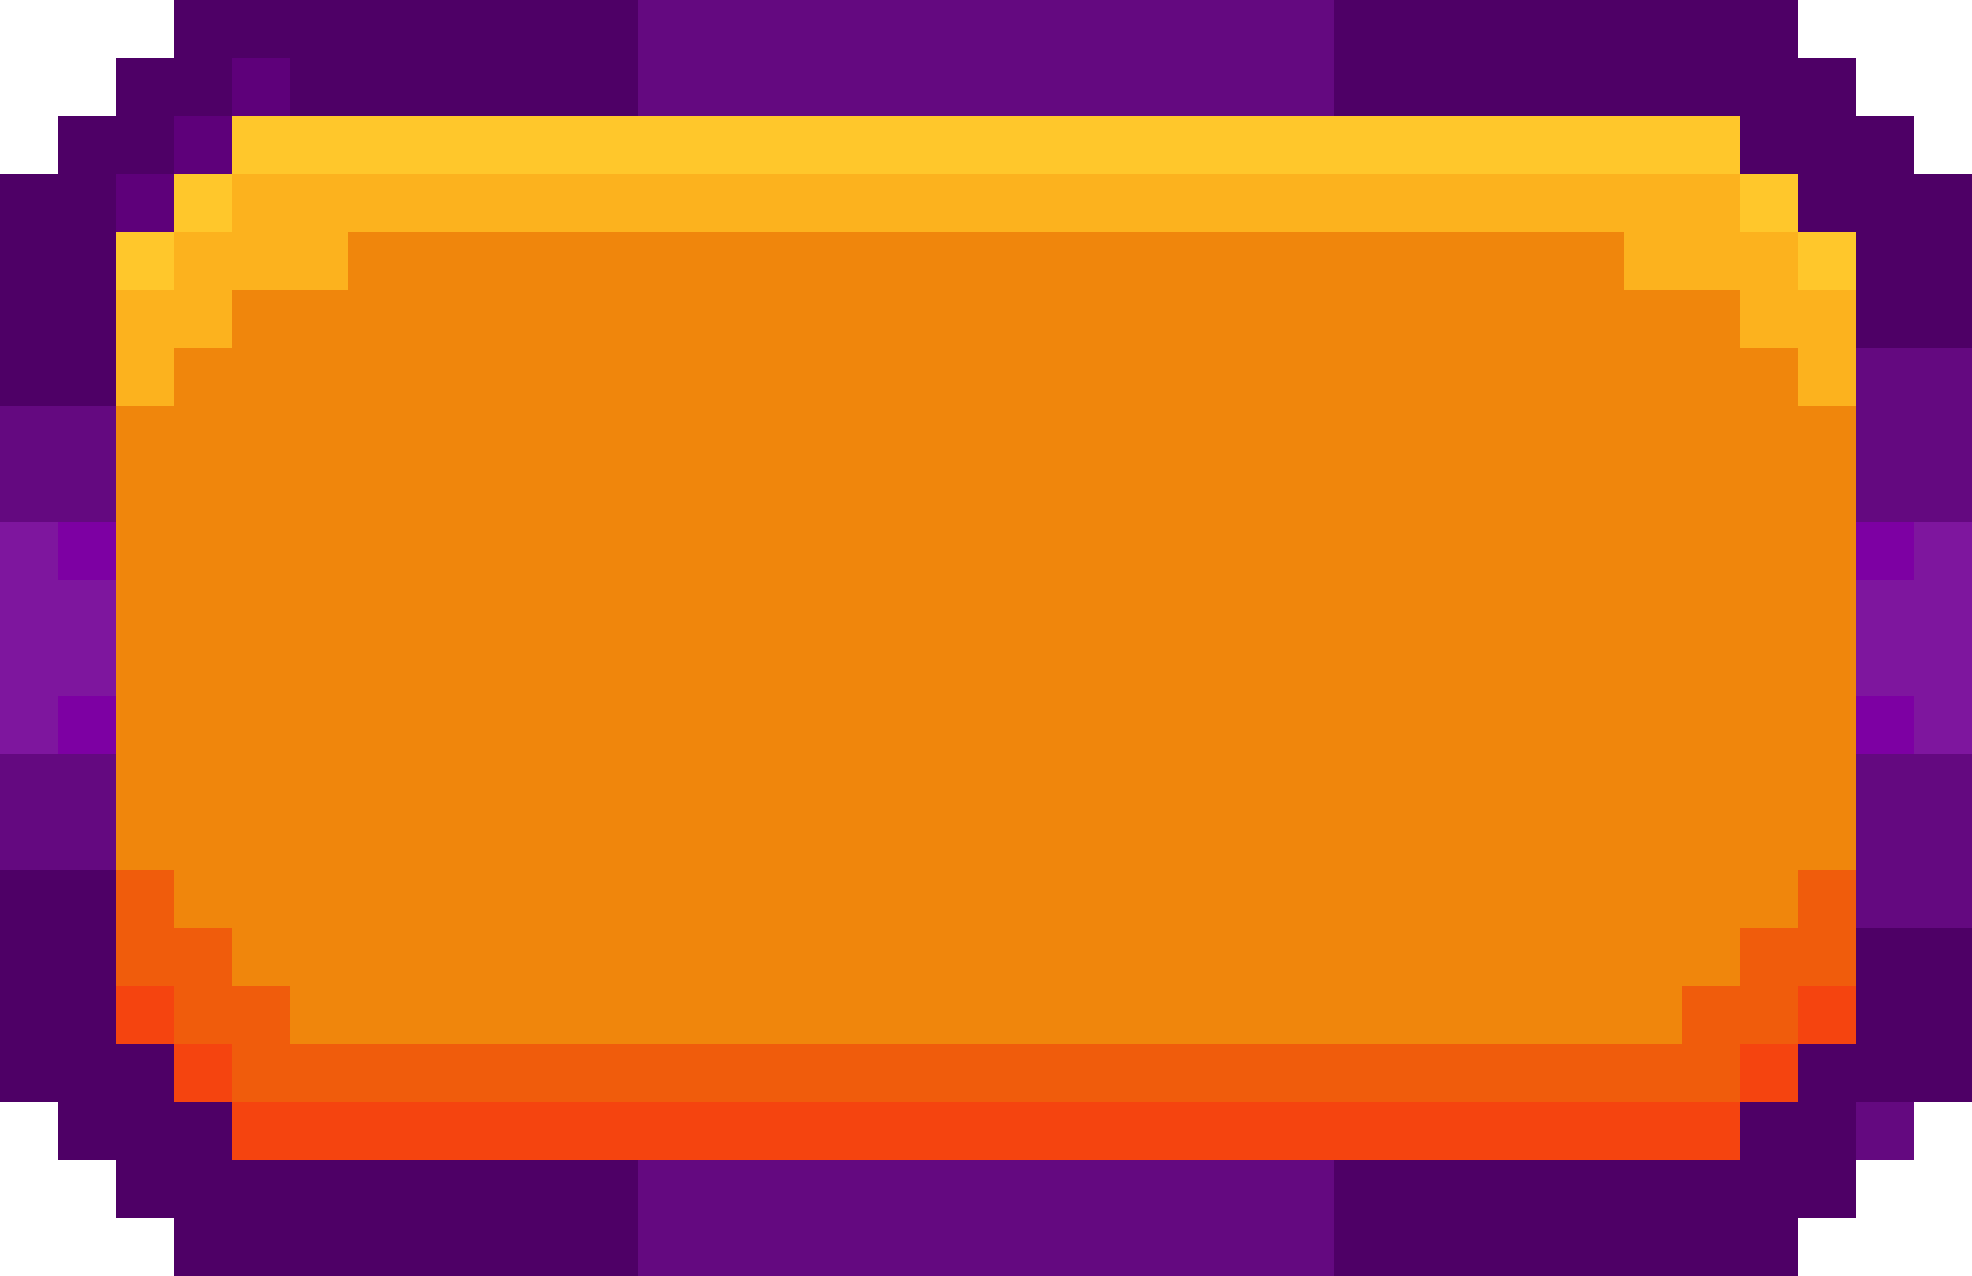
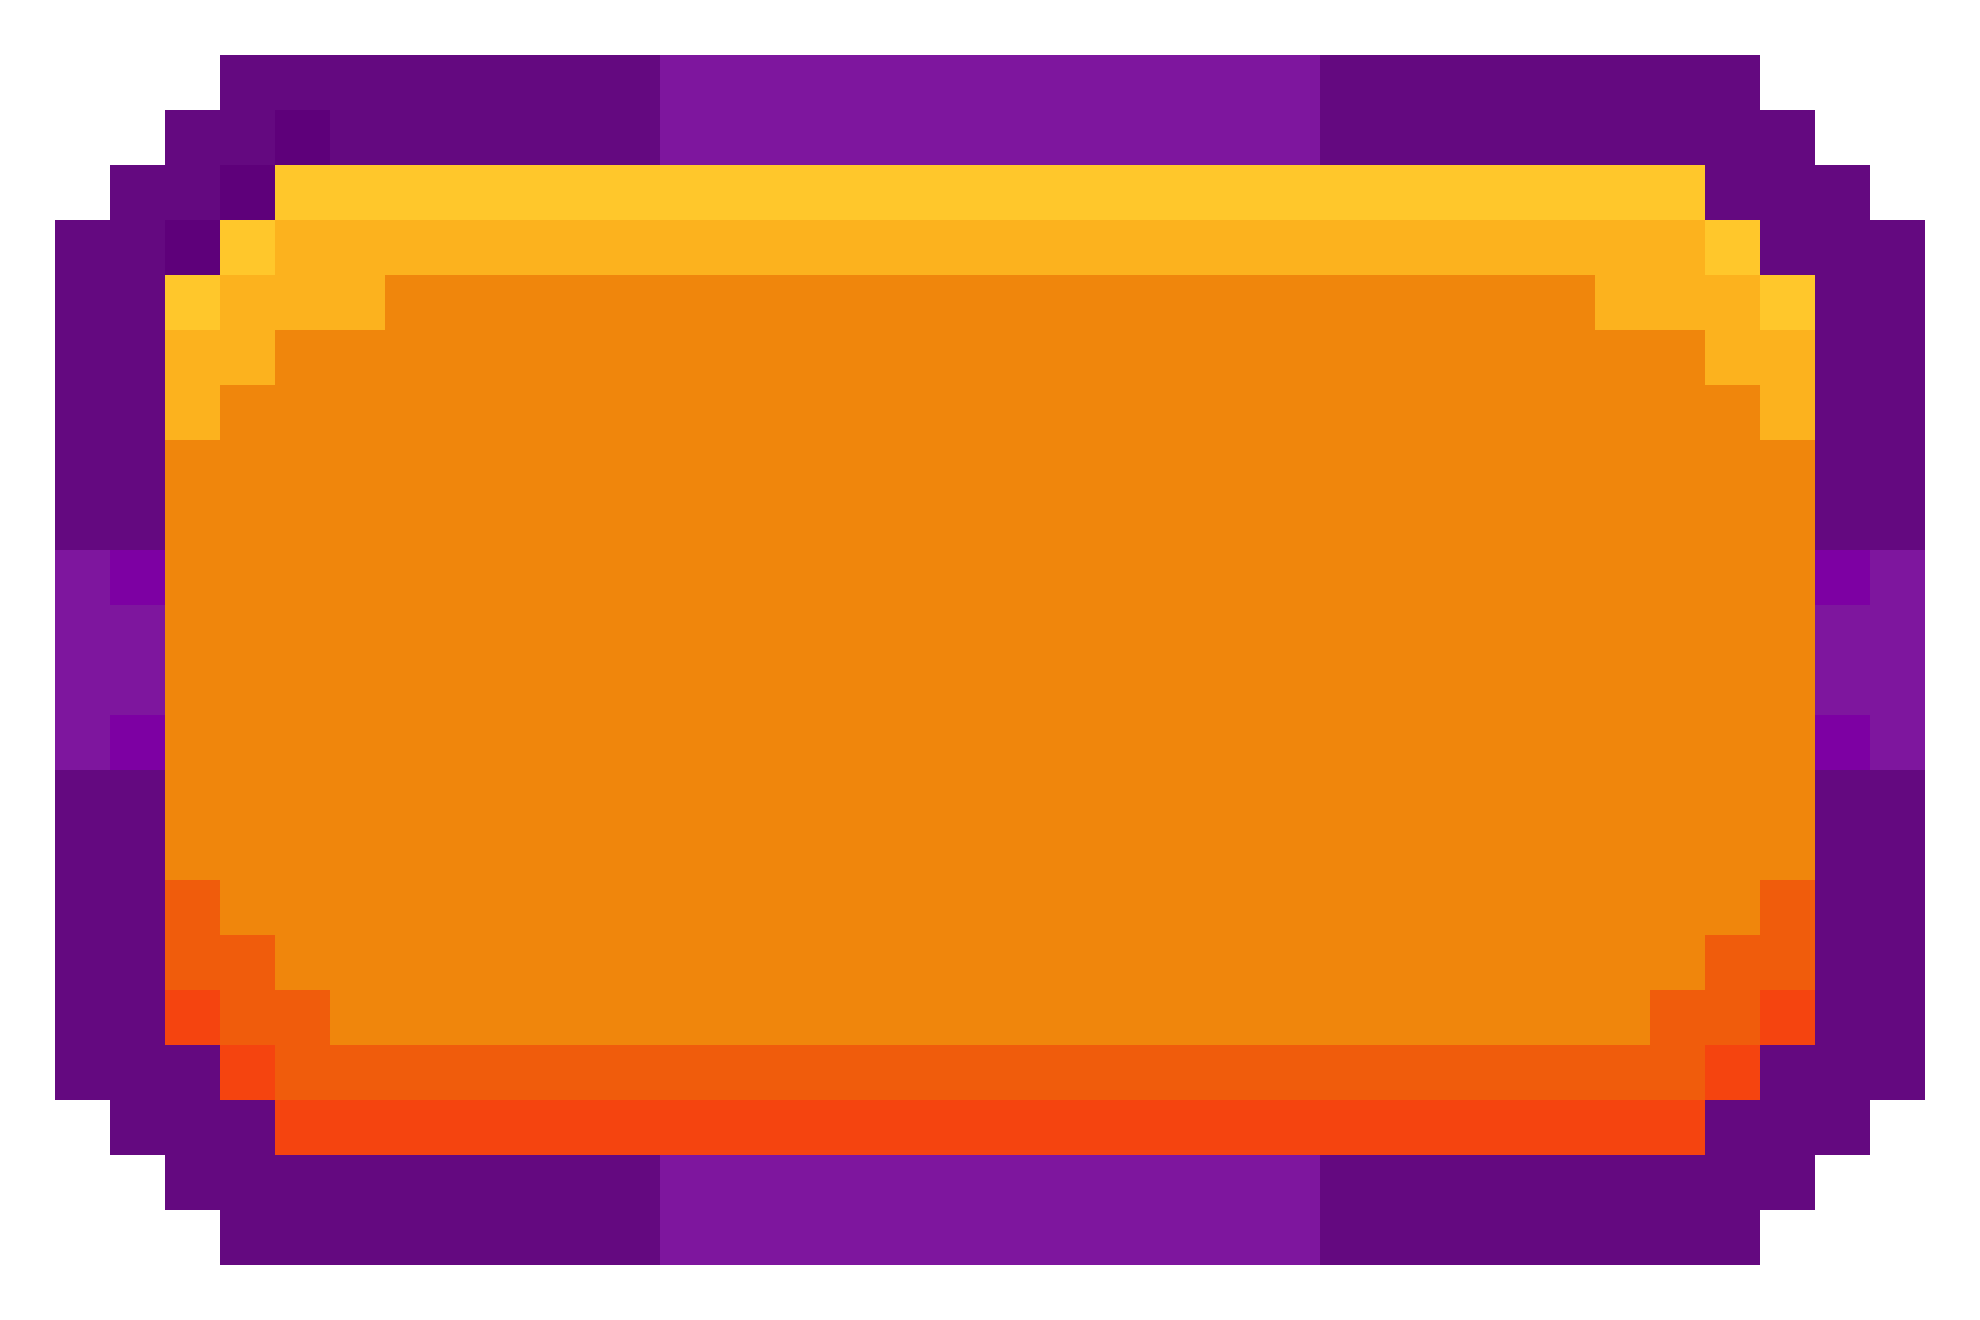
Added buttons to selecting screen

diff --git a/UI/Resources/Styles/Styles.xaml b/UI/Resources/Styles/Styles.xaml
@@ -24,8 +24,8 @@
     </Style>
 
     <Style TargetType="Button">
-        <Setter Property="TextColor" Value="{AppThemeBinding Light={StaticResource White}, Dark={StaticResource Primary}}" />
-        <Setter Property="BackgroundColor" Value="{AppThemeBinding Light={StaticResource Primary}, Dark={StaticResource White}}" />
+        <Setter Property="TextColor" Value="{AppThemeBinding Light={StaticResource PaloozaTextColor}, Dark={StaticResource Primary}}" />
+        <Setter Property="BackgroundColor" Value="{AppThemeBinding Light={StaticResource Yellow100Accent}, Dark={StaticResource White}}" />
         <Setter Property="FontFamily" Value="DePixelHalbfett"/>
         <Setter Property="FontSize" Value="14"/>
         <Setter Property="CornerRadius" Value="8"/>

diff --git a/UI/NewContent1.xaml b/UI/NewContent1.xaml
@@ -1,0 +1,16 @@
+<?xml version="1.0" encoding="utf-8" ?>
+<ContentView xmlns="http://schemas.microsoft.com/dotnet/2021/maui"
+             xmlns:x="http://schemas.microsoft.com/winfx/2009/xaml"
+             xmlns:ui="clr-namespace:UI"
+             x:Class="UI.NewContent1">
+    <Shell.TitleView>
+        <ui:NewContent1></ui:NewContent1>
+    </Shell.TitleView>
+
+    <VerticalStackLayout>
+        <Label 
+            Text="Welcome to .NET MAUI!"
+            VerticalOptions="Center" 
+            HorizontalOptions="Center" />
+    </VerticalStackLayout>
+</ContentView>

diff --git a/UI/Resources/Styles/Colors.xaml b/UI/Resources/Styles/Colors.xaml
@@ -10,6 +10,7 @@
     <Color x:Key="White">White</Color>
     <Color x:Key="Black">Black</Color>
     <Color x:Key="PaloozaBackground">#C095C2</Color>
+    <Color x:Key="PaloozaTextColor">#540069</Color>
     <Color x:Key="Gray100">#E1E1E1</Color>
     <Color x:Key="Gray200">#C8C8C8</Color>
     <Color x:Key="Gray300">#ACACAC</Color>

diff --git a/UI/Pages/ScreenPlacementSelectingPage.xaml b/UI/Pages/ScreenPlacementSelectingPage.xaml
@@ -5,7 +5,7 @@
              Shell.NavBarIsVisible="false"
              Title="">
     <Grid x:Name="gridLayout"
-          RowDefinitions="*,Auto,10,Auto,*"
+          RowDefinitions="*,Auto,Auto,*"
           ColumnDefinitions="*,Auto,Auto,*"
           >
     </Grid>

diff --git a/UI/Pages/ScreenPlacementSelectingPage.xaml.cs b/UI/Pages/ScreenPlacementSelectingPage.xaml.cs
@@ -17,8 +17,7 @@ public partial class ScreenPlacementSelectingPage : ContentPage
     private ScreenPlacementSelectingLogic m_pageLogic = new ScreenPlacementSelectingLogic();
     private static List<Button> m_PlacementButton = new List<Button>();
     private List<Image> m_Images = new List<Image>();
-    private int m_ScreenSizeWidth;
-    private int m_ScreenSizeHeight;
+    private GameInformation m_GameInformation = GameInformation.Instance;
 
     Player m_Player = Player.Instance;
 
@@ -60,13 +59,14 @@ public partial class ScreenPlacementSelectingPage : ContentPage
         Shell.Current.GoToAsync("GamePage");
     }
 
-    protected override async void OnSizeAllocated(double i_Width, double i_Height)
-    {
-        base.OnSizeAllocated(i_Width,i_Height);
-        m_ScreenSizeHeight = (int)i_Height;
-        m_ScreenSizeWidth = (int)i_Width;
-        m_pageLogic.SetPlayerScreenSize((int)i_Width, (int)i_Height);
-    }
+    //protected override void OnSizeAllocated(double i_Width, double i_Height)
+    //{
+    
+    //            base.OnSizeAllocated(i_Width,i_Height);
+    //        m_ScreenSizeHeight = (int)i_Height;
+    //        m_ScreenSizeWidth = (int)i_Width;
+    //        m_pageLogic.SetPlayerScreenSize((int)i_Width, (int)i_Height);
+    //}
 
     private void initializeButtons()
     {
@@ -79,15 +79,16 @@ public partial class ScreenPlacementSelectingPage : ContentPage
                         Image image = new Image();
                         Button button = new Button();
                         Position position = new Position(m_pageLogic.AmountOfPlayers, i + 1);
-                        
+                        button.BorderColor = Colors.Transparent;
                         button.Text = (i + 1).ToString();
-                        int a = ((m_ScreenSizeHeight) / 12)/3;
+                        int a = ((m_GameInformation.m_ClientScreenDimension.SizeDTO.m_Height) / 12)/3;
                         image.HeightRequest =button.HeightRequest =  12*a;
                         image.WidthRequest=button.WidthRequest = 19*a;
                         image.Source = "placementbutton.png";
                         m_PlacementButton.Add(button);
                         m_Images.Add(image);
-                        
+                        button.FontSize = a * 3;
+                        button.FontAutoScalingEnabled = true;
                         button.Background = Brush.Transparent;
                         gridLayout.Add(image, (int)position.Column, (int)position.Row);
                         gridLayout.Add(m_PlacementButton[i], (int)position.Column, (int)position.Row);

diff --git a/LogicUnit/Logic/ScreenMapping.cs b/LogicUnit/Logic/ScreenMapping.cs
@@ -23,7 +23,6 @@ namespace LogicUnit
         public SizeDTO m_MovementButtonOurSize = GameSettings.m_MovementButtonOurSize;
         public int m_GameBoardGridSize = GameSettings.m_GameBoardGridSize;
         public int m_SpacingAroundButtons = GameSettings.m_SpacingAroundButtons;
-        public int m_ControllBoardTotalHeight;
 
         public ScreenMapping()
         {
@@ -34,12 +33,10 @@ namespace LogicUnit
 
         private void calculateMaxBoardSizeByGrid()
         {
-            m_ControllBoardTotalHeight = m_MovementButtonOurSize.m_Height * 3 + m_SpacingAroundButtons * 2;
-
             for (int i = 0; i < m_GameInformation.AmountOfPlayers; i++)
             {
                 SizeDTO maxScreenOurSize = new SizeDTO();
-                maxScreenOurSize.m_Height = ((m_GameInformation.ScreenInfoOfAllPlayers[i].SizeDTO.m_Height - m_ControllBoardTotalHeight) / m_GameBoardGridSize);
+                maxScreenOurSize.m_Height = ((m_GameInformation.ScreenInfoOfAllPlayers[i].SizeDTO.m_Height - GameSettings.ControllBoardTotalHeight) / m_GameBoardGridSize);
                 maxScreenOurSize.m_Width = ((m_GameInformation.ScreenInfoOfAllPlayers[i].SizeDTO.m_Width) / m_GameBoardGridSize);
                 m_PlayerGameBoardScreenSize.Add(maxScreenOurSize);
             }
@@ -75,9 +72,9 @@ namespace LogicUnit
             }
             else
             {
-                m_ValueToAdd.m_Row += m_ControllBoardTotalHeight;
+                m_ValueToAdd.m_Row += GameSettings.ControllBoardTotalHeight;
                 m_ValueToAdd.m_Row +=
-                    m_GameInformation.ScreenInfoOfAllPlayers[playerIndex].SizeDTO.m_Height - (m_ControllBoardTotalHeight + m_PlayerGameBoardScreenSize[playerIndex].m_Height * m_GameBoardGridSize);
+                    m_GameInformation.ScreenInfoOfAllPlayers[playerIndex].SizeDTO.m_Height - (GameSettings.ControllBoardTotalHeight + m_PlayerGameBoardScreenSize[playerIndex].m_Height * m_GameBoardGridSize);
             }
         }
 

diff --git a/LogicUnit/Logic/ScreenPlacementSelectingLogic.cs b/LogicUnit/Logic/ScreenPlacementSelectingLogic.cs
@@ -1,11 +1,6 @@
-//using System.Threading;
-//using System.Security.Cryptography.X509Certificates;
-using Microsoft.AspNetCore.SignalR.Client;
+using Microsoft.AspNetCore.SignalR.Client;
 using Microsoft.Maui;
 using Microsoft.Maui.Controls;
-//using static Java.Util.Jar.Attributes;
-//using Microsoft.Maui.Controls;
-//using static Java.Util.Jar.Attributes;
 using System;
 using System.Collections.Generic;
 using System.ComponentModel;
@@ -83,6 +78,7 @@ namespace LogicUnit
                 {
                     m_GameInformation.SetScreenInfo(i_NamesOfPlayers, i_ScreenSizeWidth, i_ScreenSizeHeight);
                     OnEnterGameRoom();
+                  
                 });
             });
 
@@ -160,7 +156,6 @@ namespace LogicUnit
         public void SetPlayerScreenSize(int i_Width, int i_Height)
         {
             m_GameInformation.m_ClientScreenDimension.SizeDTO = new SizeDTO(i_Width, i_Height);
-
         }
 
         public async void OnButtonClicked(object sender, EventArgs e)

diff --git a/UI/Pages/MainPage.xaml.cs b/UI/Pages/MainPage.xaml.cs
@@ -1,4 +1,5 @@
 using LogicUnit;
+using Objects;
 using Objects.Enums;
 using UI.Pages;
 
@@ -7,11 +8,21 @@ namespace UI
     public partial class MainPage : ContentPage
     {
         private LogicManager m_LogicManager;
+        private GameInformation m_GameInformation = GameInformation.Instance;
 
         public MainPage()
         {
             InitializeComponent();
             m_LogicManager = new LogicManager();
+        }
+
+        protected override void OnSizeAllocated(double i_Width, double i_Height)
+        {
+
+            base.OnSizeAllocated(i_Width, i_Height);
+            m_GameInformation.m_ClientScreenDimension.m_OurSize.m_Height = (int)i_Height;
+            m_GameInformation.m_ClientScreenDimension.m_OurSize.m_Width = (int)i_Width;
+           // m_pageLogic.SetPlayerScreenSize((int)i_Width, (int)i_Height);
         }
 
         private async void OnCreateRoomClicked(object sender, EventArgs e)

diff --git a/Objects/Utils.cs b/Objects/Utils.cs
@@ -9,7 +9,7 @@ namespace Objects
 {
     public class Utils
     {     //// "http://localhost:5163";// "https://pocserver20230311140030.azurewebsites.net";
-        public static string m_BaseAddress = "http://localhost:5163";//https://localhost:7038";//""https://gameroomserverfinalproject.azurewebsites.net";//"https://localhost:7038";
+        public static string m_BaseAddress = "https://gameroomserverfinalproject.azurewebsites.net";//https://localhost:7038";//""https://gameroomserverfinalproject.azurewebsites.net";//"https://localhost:7038";
         public static string m_GameHubAddress = m_BaseAddress + "/GameHub";
         public static string m_BounceBallAddress = m_BaseAddress + "/bounceBallHub";
     }

diff --git a/Objects/GameSettings.cs b/Objects/GameSettings.cs
@@ -17,6 +17,8 @@ namespace Objects
         public static SizeDTO m_HeartSize = new SizeDTO((int)(m_GameBoardGridSize * 1.2), (int)(m_GameBoardGridSize*1.2));
         public static SizeDTO m_PauseMenuOurSize = new SizeDTO(210, 245);
         public static SizeDTO m_PauseMenuButtonOurSize = new SizeDTO(175,35);
+        public const int ControllBoardTotalHeight = m_GameBoardGridSize * 3 + 2 * m_SpacingAroundButtons;
+        public static SizeDTO UIBackgroundSize = new SizeDTO(3000, ControllBoardTotalHeight);
 
         public static int getID()
         {

diff --git a/LogicUnit/LogicManager.cs b/LogicUnit/LogicManager.cs
@@ -28,8 +28,8 @@ namespace LogicUnit
         {
             r_Connection = new Connection();
 
-            m_GameInformation.m_NameOfGame = Objects.Enums.eGames.Pacman;
-            m_GameInformation.AmountOfPlayers = 2;
+            m_GameInformation.m_NameOfGame = Objects.Enums.eGames.Snake;
+            m_GameInformation.AmountOfPlayers = 4;
             m_Player.Name = DateTime.Now.ToString();
             //m_TimerForPlayersUpdate = new Timer(getPlayers, null, 0, 500);
         }

diff --git a/Objects/GameInformation.cs b/Objects/GameInformation.cs
@@ -46,6 +46,8 @@ namespace Objects
             {
                 m_ScreenInfoOfAllPlayers.Add(new ScreenDimension(i_ScreenSizeWidth[i], i_ScreenSizeHeight[i], new Position(m_AmountOfPlayers, i + 1)));
             }
+
+            m_ClientScreenDimension.m_Position = m_ScreenInfoOfAllPlayers[m_Player.ButtonThatPlayerPicked-1].Position;
         }
 
         public List<ScreenDimension> ScreenInfoOfAllPlayers
